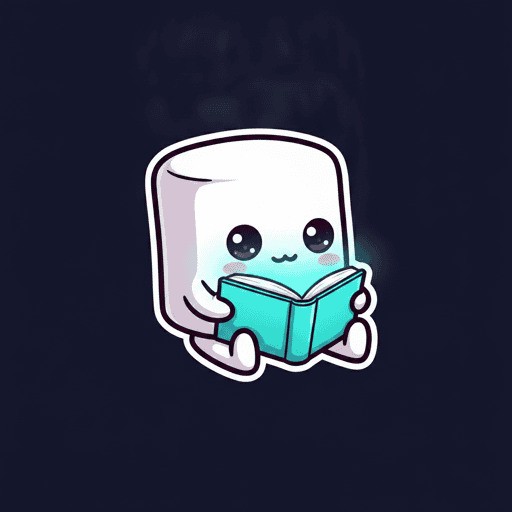
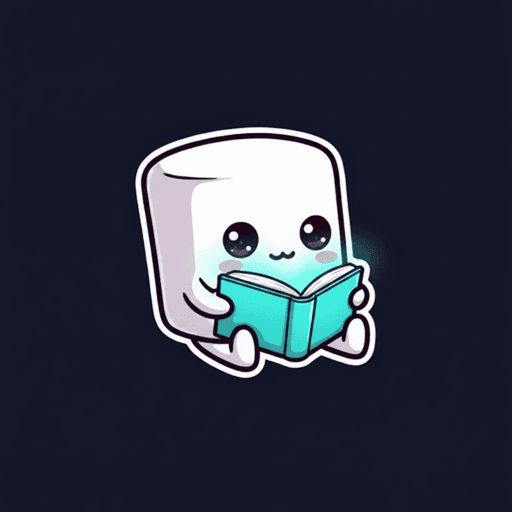
feat(landing): regen 14 weak mode-cube mascots + per-mode colored tile shadows
- redraw washy cubes in the liked good-4 sticker style (thick white die-cut
  outline, one bold accent color, glossy); arena/connections/braingym/wordcraft
  left untouched as the style reference
- colored hard-shadow at rest per mode (Netflix dark-tile + colored edge, not a
  saturated fill); add hard-orange/hard-blue tokens + RTL flips for
  purple/orange/blue so Hebrew shadows don't break
- TDD: assert each variant carries a distinct resting shadow

Changed region(s): [[0.25, 0.2188, 0.75, 0.75], [0.4062, 0.1875, 0.4375, 0.2188]]

diff --git a/fe-next/components/landing/LandingModeCubes.tsx b/fe-next/components/landing/LandingModeCubes.tsx
@@ -31,20 +31,24 @@ interface VariantStyle {
   chip: string;
   /** ink on the icon chip */
   chipInk: string;
-  /** coloured hard shadow on hover */
+  /** coloured hard shadow AT REST — the per-mode "colour-coded modes" tile signal.
+      Replaces the old uniform black `shadow-hard` so the bento reads colourful at a
+      glance (the homepage brief) without flooding the fill like the legacy cards. */
+  restShadow: string;
+  /** coloured hard shadow on hover (same hue, kept for emphasis under the lift) */
   shadow: string;
   ring: string;
 }
 
-// Mirrors ModeCard's variant palette. orange/blue have no coloured hard-shadow
-// utility → fall back to shadow-hard-lg (keeps the lift without inventing tokens).
+// Mirrors ModeCard's variant palette. Each mode gets a colour-matched hard shadow
+// at rest (Netflix-style: dark tile, distinct coloured edge) — NOT a saturated fill.
 const VARIANT: Record<ModeCubeVariant, VariantStyle> = {
-  pink:   { fill: 'bg-neo-pink',   ink: 'text-neo-navy',  chip: 'bg-neo-pink',   chipInk: 'text-neo-navy',  shadow: 'group-hover:shadow-hard-pink',   ring: 'focus-visible:ring-neo-pink' },
-  cyan:   { fill: 'bg-neo-cyan',   ink: 'text-neo-navy',  chip: 'bg-neo-cyan',   chipInk: 'text-neo-navy',  shadow: 'group-hover:shadow-hard-cyan',   ring: 'focus-visible:ring-neo-cyan' },
-  purple: { fill: 'bg-neo-purple', ink: 'text-neo-white', chip: 'bg-neo-purple', chipInk: 'text-neo-white', shadow: 'group-hover:shadow-hard-purple', ring: 'focus-visible:ring-neo-purple' },
-  orange: { fill: 'bg-neo-orange', ink: 'text-neo-navy',  chip: 'bg-neo-orange', chipInk: 'text-neo-navy',  shadow: 'group-hover:shadow-hard-lg',     ring: 'focus-visible:ring-neo-orange' },
-  lime:   { fill: 'bg-neo-lime',   ink: 'text-neo-navy',  chip: 'bg-neo-lime',   chipInk: 'text-neo-navy',  shadow: 'group-hover:shadow-hard-lime',   ring: 'focus-visible:ring-neo-lime' },
-  blue:   { fill: 'bg-blue-500',   ink: 'text-neo-white', chip: 'bg-blue-500',   chipInk: 'text-neo-white', shadow: 'group-hover:shadow-hard-lg',     ring: 'focus-visible:ring-blue-400' },
+  pink:   { fill: 'bg-neo-pink',   ink: 'text-neo-navy',  chip: 'bg-neo-pink',   chipInk: 'text-neo-navy',  restShadow: 'shadow-hard-pink',   shadow: 'group-hover:shadow-hard-pink',   ring: 'focus-visible:ring-neo-pink' },
+  cyan:   { fill: 'bg-neo-cyan',   ink: 'text-neo-navy',  chip: 'bg-neo-cyan',   chipInk: 'text-neo-navy',  restShadow: 'shadow-hard-cyan',   shadow: 'group-hover:shadow-hard-cyan',   ring: 'focus-visible:ring-neo-cyan' },
+  purple: { fill: 'bg-neo-purple', ink: 'text-neo-white', chip: 'bg-neo-purple', chipInk: 'text-neo-white', restShadow: 'shadow-hard-purple', shadow: 'group-hover:shadow-hard-purple', ring: 'focus-visible:ring-neo-purple' },
+  orange: { fill: 'bg-neo-orange', ink: 'text-neo-navy',  chip: 'bg-neo-orange', chipInk: 'text-neo-navy',  restShadow: 'shadow-hard-orange', shadow: 'group-hover:shadow-hard-orange', ring: 'focus-visible:ring-neo-orange' },
+  lime:   { fill: 'bg-neo-lime',   ink: 'text-neo-navy',  chip: 'bg-neo-lime',   chipInk: 'text-neo-navy',  restShadow: 'shadow-hard-lime',   shadow: 'group-hover:shadow-hard-lime',   ring: 'focus-visible:ring-neo-lime' },
+  blue:   { fill: 'bg-blue-500',   ink: 'text-neo-white', chip: 'bg-blue-500',   chipInk: 'text-neo-white', restShadow: 'shadow-hard-blue',   shadow: 'group-hover:shadow-hard-blue',   ring: 'focus-visible:ring-blue-400' },
 };
 
 function Badge({ label }: { label: string }) {
@@ -111,7 +115,10 @@ function Cube({ model, index, anchor = false, bigAnchor = true }: CubeProps) {
       data-cube-key={model.key}
       style={{ animationDelay: `${Math.min(index, 8) * 0.05}s` }}
       className={cn(
-        'cube-reveal group relative flex flex-col overflow-hidden rounded-neo border-neo-thick border-black shadow-hard transition-transform duration-150',
+        'cube-reveal group relative flex flex-col overflow-hidden rounded-neo border-neo-thick border-black transition-transform duration-150',
+        // per-mode coloured hard shadow at rest → the bento reads "colour-coded" at a
+        // glance without a saturated fill (replaces the old uniform black shadow-hard)
+        v.restShadow,
         // Physical neo-brutalist feedback. Lift on hover AND focus-visible so the
         // grid feels alive on TV/party screens (no pointer → focus is the only
         // signal) and for keyboard users. active = press the cube back in.

diff --git a/fe-next/components/landing/__tests__/LandingModeCubes.test.tsx b/fe-next/components/landing/__tests__/LandingModeCubes.test.tsx
@@ -111,4 +111,30 @@ describe('LandingModeCubes', () => {
     // distinct per-cube delays — not every cube sweeping on the same clock
     expect(new Set(delays).size).toBeGreaterThan(1);
   });
+
+  // matches a BARE colored hard-shadow token (the resting tile shadow), ignoring
+  // prefixed variants like `group-hover:shadow-hard-pink` or `active:shadow-hard-pressed`.
+  const restingShadow = (el: HTMLElement) =>
+    el.className.match(/(?:^|\s)(shadow-hard-(?:pink|cyan|lime|purple|orange|blue))(?=\s|$)/)?.[1];
+
+  it('color-codes each cube with a distinct hard shadow AT REST (not a uniform black frame)', () => {
+    renderCubes({
+      models: [
+        model({ key: 'arena', title: 'Arena', variant: 'pink', role: 'anchor' }),
+        model({ key: 'practice', title: 'Practice', variant: 'cyan' }),
+        model({ key: 'blast', title: 'Blast', variant: 'orange' }),
+      ],
+    });
+    const arena = screen.getByRole('link', { name: /Arena/i });
+    const practice = screen.getByRole('link', { name: /Practice/i });
+    const blast = screen.getByRole('link', { name: /Blast/i });
+
+    // each mode carries its own colored resting shadow (design-system "color-coded modes")
+    expect(restingShadow(arena)).toBe('shadow-hard-pink');
+    expect(restingShadow(practice)).toBe('shadow-hard-cyan');
+    expect(restingShadow(blast)).toBe('shadow-hard-orange');
+    // distinct across modes, and no longer the old uniform black `shadow-hard`
+    expect(new Set([restingShadow(arena), restingShadow(practice), restingShadow(blast)]).size).toBe(3);
+    expect(arena.className).not.toMatch(/(?:^|\s)shadow-hard(?=\s|$)/);
+  });
 });

diff --git a/fe-next/tailwind.config.js b/fe-next/tailwind.config.js
@@ -248,6 +248,8 @@ module.exports = {
         'hard-cozy': '2px 2px 0px var(--neo-cozy)',
         'hard-purple': '2px 2px 0px #581c87',
         'hard-purple-lg': '3px 3px 0px #581c87',
+        'hard-orange': '2px 2px 0px var(--neo-orange)',
+        'hard-blue': '2px 2px 0px #3b82f6',
         // Remove default shadows
         'none': 'none',
       },
@@ -765,6 +767,15 @@ module.exports = {
         },
         '[dir="rtl"] .shadow-hard-cozy': {
           boxShadow: '-4px 4px 0px var(--neo-cozy)',
+        },
+        '[dir="rtl"] .shadow-hard-purple': {
+          boxShadow: '-4px 4px 0px #581c87',
+        },
+        '[dir="rtl"] .shadow-hard-orange': {
+          boxShadow: '-4px 4px 0px var(--neo-orange)',
+        },
+        '[dir="rtl"] .shadow-hard-blue': {
+          boxShadow: '-4px 4px 0px #3b82f6',
         },
         '.badge-token-info': {
           backgroundColor: 'var(--badge-info)',
